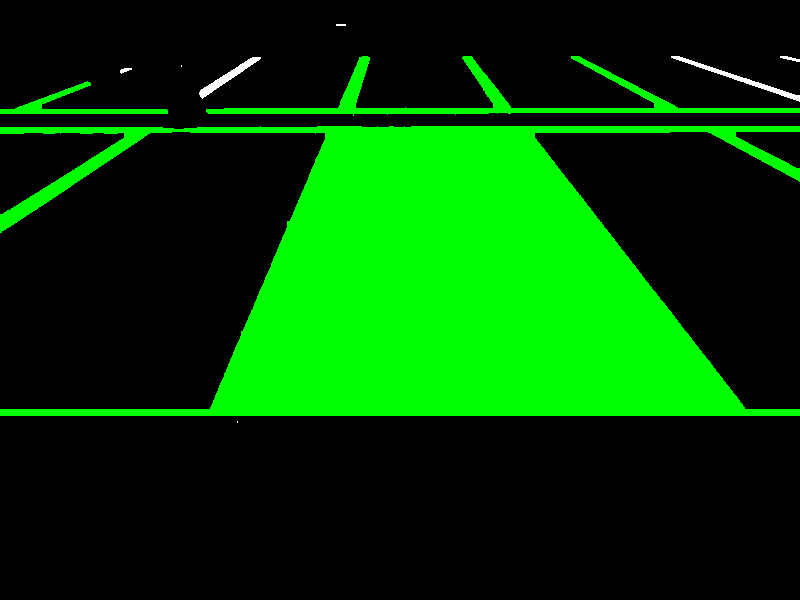
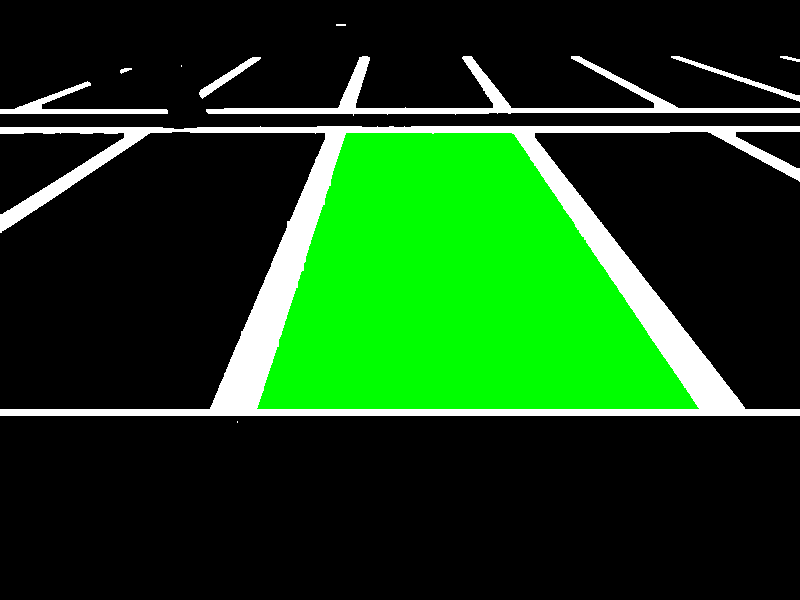
trova i patcheggi e li colora di verde ora

diff --git a/Federico/TestImage4.py b/Federico/TestImage4.py
@@ -81,9 +81,9 @@ def draw_horizontal_line(image):
 
     return image_with_line
 
-def color_shapes(image, color=(0, 255, 0), min_area=500):
+def color_enclosed_black_areas(image, color=(0, 255, 0), min_area=500):
     """
-    Trova le forme nell'immagine binaria (dentro le linee bianche) e le colora con un altro colore.
+    Trova le aree nere chiuse delimitate da righe bianche e le colora con un altro colore.
     
     Args:
         image (numpy.ndarray): Immagine binaria (0 e 255).
@@ -91,26 +91,34 @@ def color_shapes(image, color=(0, 255, 0), min_area=500):
         min_area (int): L'area minima di un contorno per essere colorato (default 500).
     
     Returns:
-        numpy.ndarray: Immagine con le forme colorate.
+        numpy.ndarray: Immagine con le aree nere colorate.
     """
     # Crea una copia dell'immagine per non modificare l'originale
     colored_image = cv2.cvtColor(image, cv2.COLOR_GRAY2BGR)  # Converti l'immagine in un'immagine a colori
 
-    # Trova i contorni nell'immagine binaria
-    contours, _ = cv2.findContours(image, cv2.RETR_EXTERNAL, cv2.CHAIN_APPROX_SIMPLE)
+    # Trova i contorni nell'immagine binaria (invertiamo l'immagine per cercare il nero)
+    contours, _ = cv2.findContours(255 - image, cv2.RETR_EXTERNAL, cv2.CHAIN_APPROX_SIMPLE)
 
-    # Filtra i contorni per area minima
+    # Ottieni le dimensioni dell'immagine
+    height, width = image.shape
+
+    # Filtra i contorni per area minima e quelli che non toccano i bordi
     for contour in contours:
-        if cv2.contourArea(contour) > min_area:  # Verifica se l'area del contorno è maggiore della soglia
-            # Riempi il contorno con il colore specificato
-            cv2.drawContours(colored_image, [contour], -1, color, thickness=cv2.FILLED)
+        area = cv2.contourArea(contour)
+        x, y, w, h = cv2.boundingRect(contour)  # Ottieni il rettangolo del contorno
+
+        # Controlla che il contorno non tocchi i bordi
+        if x > 0 and y > 0 and (x + w) < width and (y + h) < height:
+            if area > min_area:  # Verifica se l'area del contorno è maggiore della soglia
+                # Riempi il contorno con il colore specificato
+                cv2.drawContours(colored_image, [contour], -1, color, thickness=cv2.FILLED)
 
     return colored_image
 
 def process_image(imageURL):
     image_opened = preprocess_image(imageURL)  # Pre-processing dell'immagine
     image_with_lines = draw_horizontal_line(image_opened)  # Rilevamento delle linee
-    image_parking_found = color_shapes(image_with_lines)
+    image_parking_found = color_enclosed_black_areas(image_with_lines)
 
     # Mostra l'immagine con la linea
     cv2.imshow("Image with Horizontal Lines", image_parking_found)
@@ -124,7 +132,7 @@ def process_image(imageURL):
 imageURL = "./Federico/img/parcheggio.jpg"
 imageURLAlto = "./Federico/img/parcheggioAlto.jpg"
 imageURL2 = "./Federico/img/parcheggio3.jpg"
-ImageURLNew = "./RL/guida/output3/4365.png"
+ImageURLNew = "./RL/guida/output3/4685.png"
 ImageURLNew2 = "./RL/guida/output3/4700.png"
 
 process_image(ImageURLNew)
